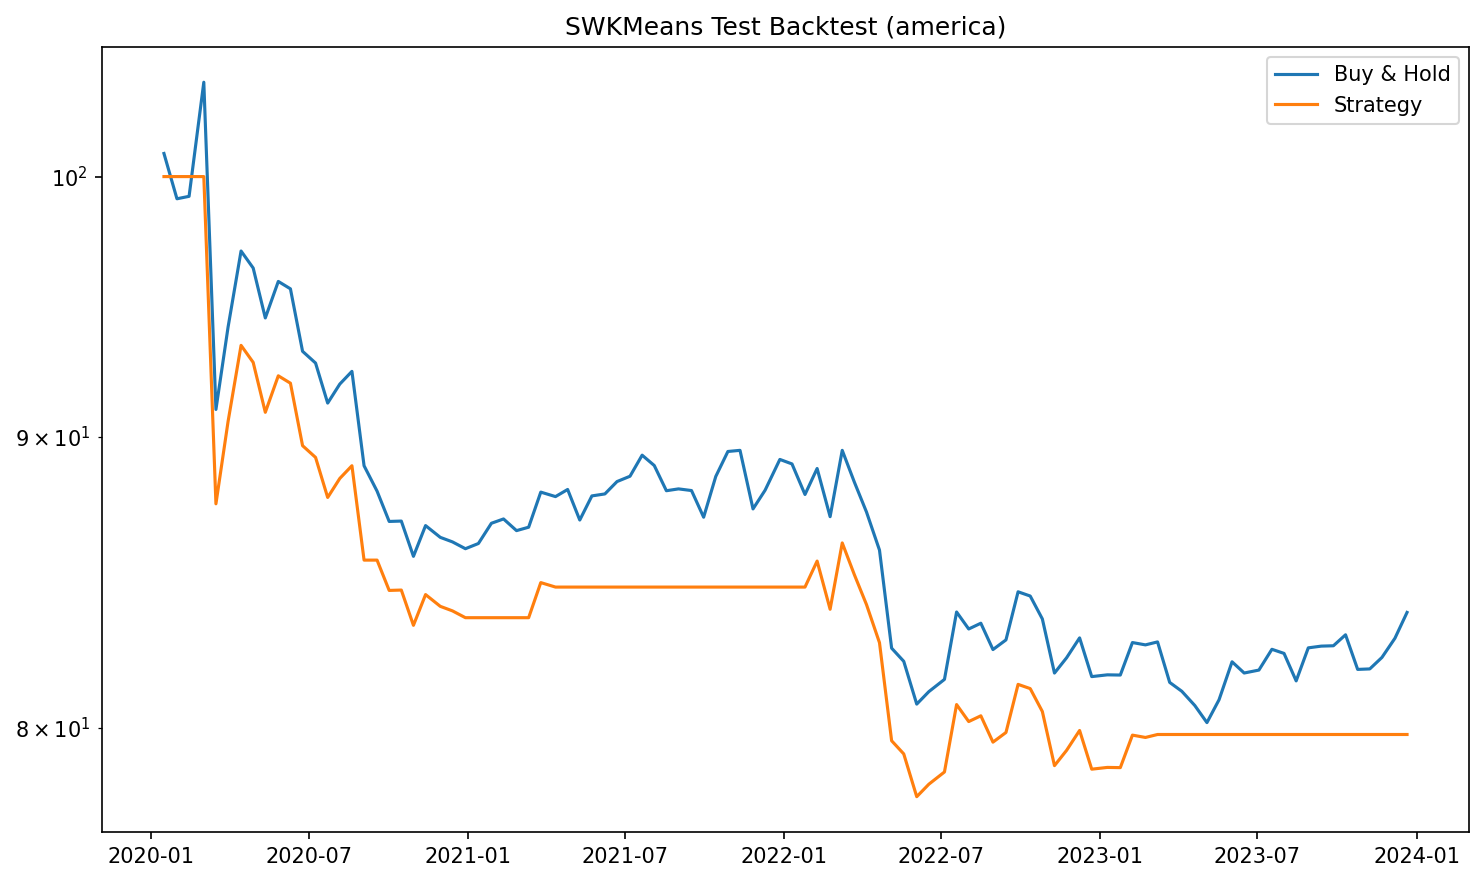
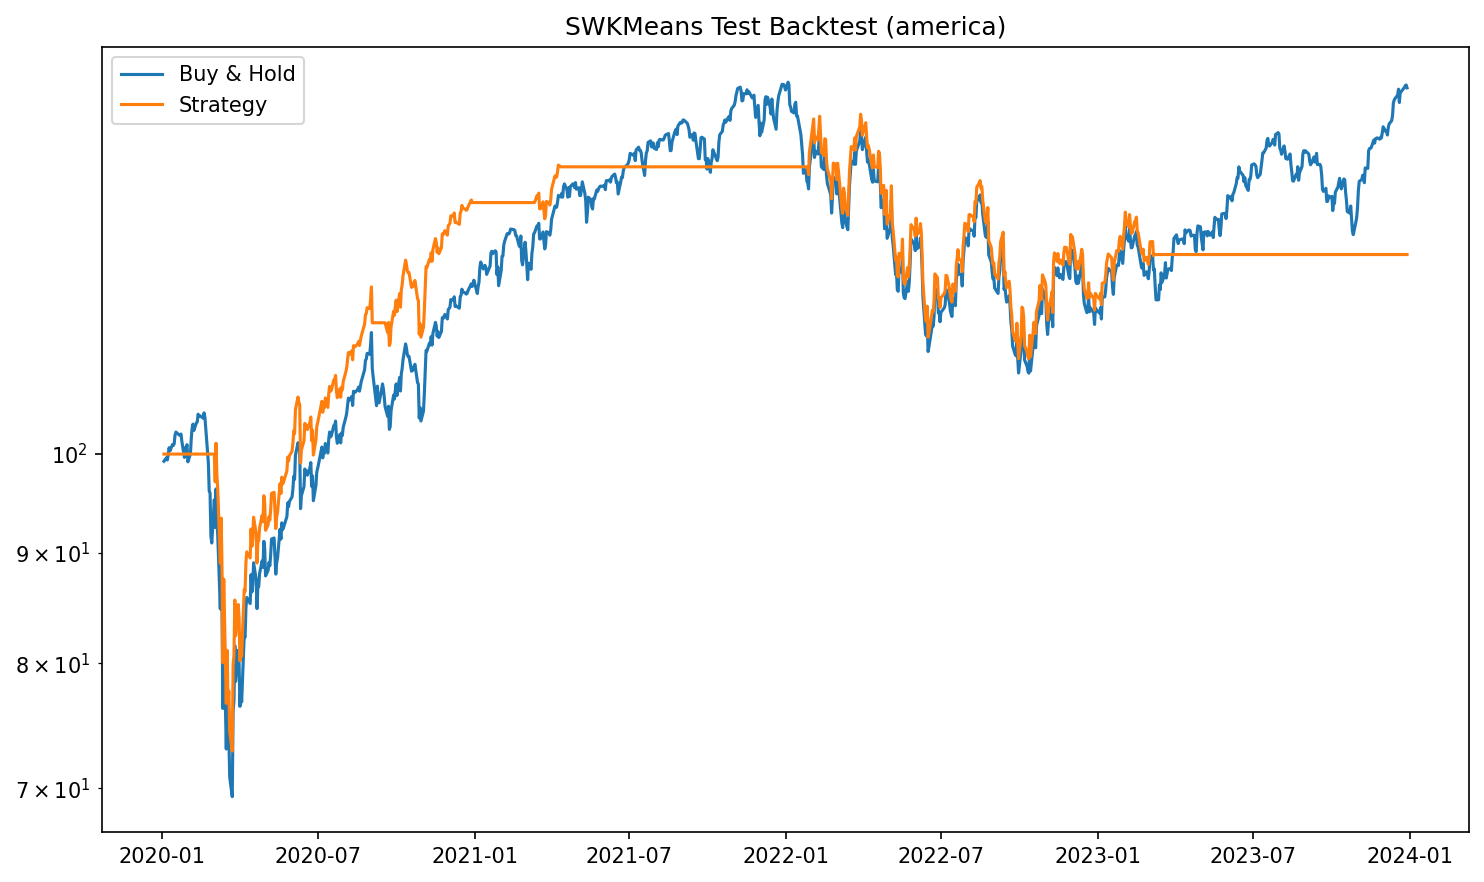
Update backtest bias branch with SWKMeans fixes, metrics, comparison csv, and figures

diff --git a/algo_regime/src/regime_detector.py b/algo_regime/src/regime_detector.py
@@ -782,6 +782,57 @@ class RegimeDetector:
             signals_skmeans["weight_skmeans"] = self.labels_skmeans.map(weight_map)
 
         return signals, signals_skmeans
+    
+
+    def _expand_skmeans_signals_to_daily(
+        self,
+        start_index: Optional[pd.Index] = None,
+    ) -> pd.DataFrame:
+        """
+        Expand sparse sWkmeans regime labels to a daily index via forward fill.
+
+        Parameters
+        ----------
+        start_index : pd.Index, optional
+            If provided, restrict the expanded daily signals to this index
+            (for example the test-period daily index).
+
+        Returns
+        -------
+        pd.DataFrame
+            Daily DataFrame with columns:
+                regime_skmeans
+                weight_skmeans
+        """
+        if self.labels_skmeans is None:
+            raise RuntimeError("No sWkmeans labels available. Call detect_regime_skmeans_train_test() first.")
+
+        n = self.n_regimes
+        weight_map = {}
+        for rid in range(n):
+            if rid == n - 1:
+                weight_map[rid] = 1.0
+            elif rid == 0:
+                weight_map[rid] = 0.0
+            else:
+                weight_map[rid] = 0.5
+
+        daily_index = self.close.index
+
+        daily_regime = self.labels_skmeans.reindex(daily_index).ffill()
+
+        # avoid using any regime before the first available sWkmeans label
+        first_valid = self.labels_skmeans.index.min()
+        daily_regime.loc[daily_regime.index < first_valid] = np.nan
+
+        if start_index is not None:
+            daily_regime = daily_regime.reindex(start_index)
+
+        signals_daily = pd.DataFrame(index=daily_regime.index)
+        signals_daily["regime_skmeans"] = daily_regime
+        signals_daily["weight_skmeans"] = daily_regime.map(weight_map)
+
+        return signals_daily
 
    # ── back-test helper ─────────────────────────────────────────────────
     def backtest(self, initial_capital=100, signals: Optional[pd.DataFrame] = None) -> pd.DataFrame:
@@ -882,20 +933,22 @@ class RegimeDetector:
 
     def backtest_skmeans(self, initial_capital=100, signals: Optional[pd.DataFrame] = None) -> pd.DataFrame:
         """
-        Back-test for sWkmeans regime detection on the available sWkmeans label index.
+        Back-test for sWkmeans after expanding sparse window-level labels
+        to the full daily index via forward fill.
         """
-        if signals is None:
-            _, signals = self.generate_signals()
+        if self.labels_skmeans is None:
+            raise RuntimeError("No sWkmeans labels available. Call detect_regime_skmeans_train_test() first.")
 
-        if signals is None or signals.empty:
-            raise RuntimeError("No sWkmeans signals available. Call detect_regime_skmeans_train_test() first.")
+        signals_skmeans_daily = self._expand_skmeans_signals_to_daily()
 
         simple_ret = (self.close / self.close.shift(1) - 1).mean(axis=1)
-        simple_ret = simple_ret.reindex(signals.index)
+        simple_ret = simple_ret.reindex(signals_skmeans_daily.index)
 
-        bt = pd.DataFrame(index=signals.index)
+        bt = pd.DataFrame(index=signals_skmeans_daily.index)
         bt["basket_ret"] = simple_ret
-        bt["strategy_ret_skmeans"] = bt["basket_ret"] * signals["weight_skmeans"].shift(1)
+        bt["regime_skmeans"] = signals_skmeans_daily["regime_skmeans"]
+        bt["weight_skmeans"] = signals_skmeans_daily["weight_skmeans"]
+        bt["strategy_ret_skmeans"] = bt["basket_ret"] * bt["weight_skmeans"].shift(1)
 
         bt = bt.dropna(subset=["basket_ret", "strategy_ret_skmeans"])
 
@@ -905,35 +958,55 @@ class RegimeDetector:
         std_basket = bt["basket_ret"].std()
         std_skmeans = bt["strategy_ret_skmeans"].std()
 
-        bt["sharpe_basket"] = (bt["basket_ret"].mean() / std_basket * np.sqrt(252)) if std_basket > 0 else 0.0
-        bt["sharpe_strategy_skmeans"] = (bt["strategy_ret_skmeans"].mean() / std_skmeans * np.sqrt(252)) if std_skmeans > 0 else 0.0
+        bt["sharpe_basket"] = (
+            bt["basket_ret"].mean() / std_basket * np.sqrt(252)
+            if std_basket > 0 else 0.0
+        )
+        bt["sharpe_strategy_skmeans"] = (
+            bt["strategy_ret_skmeans"].mean() / std_skmeans * np.sqrt(252)
+            if std_skmeans > 0 else 0.0
+        )
 
-        bt["ann_return_basket"] = (bt["cum_basket"].iloc[-1] / initial_capital) ** (252 / len(bt)) - 1
-        bt["ann_return_strategy_skmeans"] = (bt["cum_strategy_skmeans"].iloc[-1] / initial_capital) ** (252 / len(bt)) - 1
+        bt["ann_return_basket"] = (
+            (bt["cum_basket"].iloc[-1] / initial_capital) ** (252 / len(bt)) - 1
+        )
+        bt["ann_return_strategy_skmeans"] = (
+            (bt["cum_strategy_skmeans"].iloc[-1] / initial_capital) ** (252 / len(bt)) - 1
+        )
 
         bt["ann_vol_basket"] = bt["basket_ret"].std() * np.sqrt(252)
         bt["ann_vol_strategy_skmeans"] = bt["strategy_ret_skmeans"].std() * np.sqrt(252)
+
+        bt["final_capital_basket"] = bt["cum_basket"].iloc[-1]
+        bt["final_capital_strategy_skmeans"] = bt["cum_strategy_skmeans"].iloc[-1]
 
         return bt
     def backtest_skmeans_test_only(self, initial_capital=100) -> pd.DataFrame:
         """
-        Back-test sWkmeans on the test sample only.
+        Back-test sWkmeans on the test sample only, after expanding sparse
+        window-level regime labels to a daily index via forward fill.
         """
-        if self.test_index_skmeans is None:
+        if self.test_index is None:
+            raise RuntimeError("Call fit_train_test(split_date=...) first.")
+
+        if self.labels_skmeans is None:
             raise RuntimeError("Call detect_regime_skmeans_train_test() first.")
 
-        _, signals_skmeans = self.generate_signals()
-        if signals_skmeans is None:
-            raise RuntimeError("No sWkmeans signals available.")
+        # use the daily test index from the main train/test split
+        daily_test_index = self.test_index
 
-        signals_skmeans = signals_skmeans.loc[self.test_index_skmeans].copy()
+        signals_skmeans_daily = self._expand_skmeans_signals_to_daily(start_index=daily_test_index)
 
         simple_ret = (self.close / self.close.shift(1) - 1).mean(axis=1)
-        simple_ret = simple_ret.reindex(signals_skmeans.index)
+        simple_ret = simple_ret.reindex(daily_test_index)
 
-        bt = pd.DataFrame(index=signals_skmeans.index)
+        bt = pd.DataFrame(index=daily_test_index)
         bt["basket_ret"] = simple_ret
-        bt["strategy_ret_skmeans"] = bt["basket_ret"] * signals_skmeans["weight_skmeans"].shift(1)
+        bt["regime_skmeans"] = signals_skmeans_daily["regime_skmeans"]
+        bt["weight_skmeans"] = signals_skmeans_daily["weight_skmeans"]
+
+        # use yesterday's signal to trade today
+        bt["strategy_ret_skmeans"] = bt["basket_ret"] * bt["weight_skmeans"].shift(1)
 
         bt = bt.dropna(subset=["basket_ret", "strategy_ret_skmeans"])
 
@@ -943,14 +1016,27 @@ class RegimeDetector:
         std_basket = bt["basket_ret"].std()
         std_skmeans = bt["strategy_ret_skmeans"].std()
 
-        bt["sharpe_basket"] = (bt["basket_ret"].mean() / std_basket * np.sqrt(252)) if std_basket > 0 else 0.0
-        bt["sharpe_strategy_skmeans"] = (bt["strategy_ret_skmeans"].mean() / std_skmeans * np.sqrt(252)) if std_skmeans > 0 else 0.0
+        bt["sharpe_basket"] = (
+            bt["basket_ret"].mean() / std_basket * np.sqrt(252)
+            if std_basket > 0 else 0.0
+        )
+        bt["sharpe_strategy_skmeans"] = (
+            bt["strategy_ret_skmeans"].mean() / std_skmeans * np.sqrt(252)
+            if std_skmeans > 0 else 0.0
+        )
 
-        bt["ann_return_basket"] = (bt["cum_basket"].iloc[-1] / initial_capital) ** (252 / len(bt)) - 1
-        bt["ann_return_strategy_skmeans"] = (bt["cum_strategy_skmeans"].iloc[-1] / initial_capital) ** (252 / len(bt)) - 1
+        bt["ann_return_basket"] = (
+            (bt["cum_basket"].iloc[-1] / initial_capital) ** (252 / len(bt)) - 1
+        )
+        bt["ann_return_strategy_skmeans"] = (
+            (bt["cum_strategy_skmeans"].iloc[-1] / initial_capital) ** (252 / len(bt)) - 1
+        )
 
         bt["ann_vol_basket"] = bt["basket_ret"].std() * np.sqrt(252)
         bt["ann_vol_strategy_skmeans"] = bt["strategy_ret_skmeans"].std() * np.sqrt(252)
+
+        bt["final_capital_basket"] = bt["cum_basket"].iloc[-1]
+        bt["final_capital_strategy_skmeans"] = bt["cum_strategy_skmeans"].iloc[-1]
 
         return bt
     # ── plotting ─────────────────────────────────────────────────────────

diff --git a/algo_regime/src/test_swkmeans_train_test.py b/algo_regime/src/test_swkmeans_train_test.py
@@ -69,6 +69,9 @@ rd.detect_regime_skmeans_train_test(
     metric="CVaR",
 )
 
+
+
+
 print(rd.train_labels_skmeans.head())
 print(rd.test_labels_skmeans.head())
 print(rd.labels_skmeans.tail())
@@ -93,3 +96,12 @@ print("\nAny non-positive prices?")
 print((close <= 0).sum())
 print("\nMissing values in close:")
 print(close.isna().sum())
+
+
+bt_sk = rd.backtest_skmeans_test_only()
+
+
+print(bt_sk.head())
+print(bt_sk.tail())
+print("Number of daily test rows in skmeans backtest:", len(bt_sk))
+print("Number of daily test rows in main backtest:", len(rd.backtest_test_only()))
